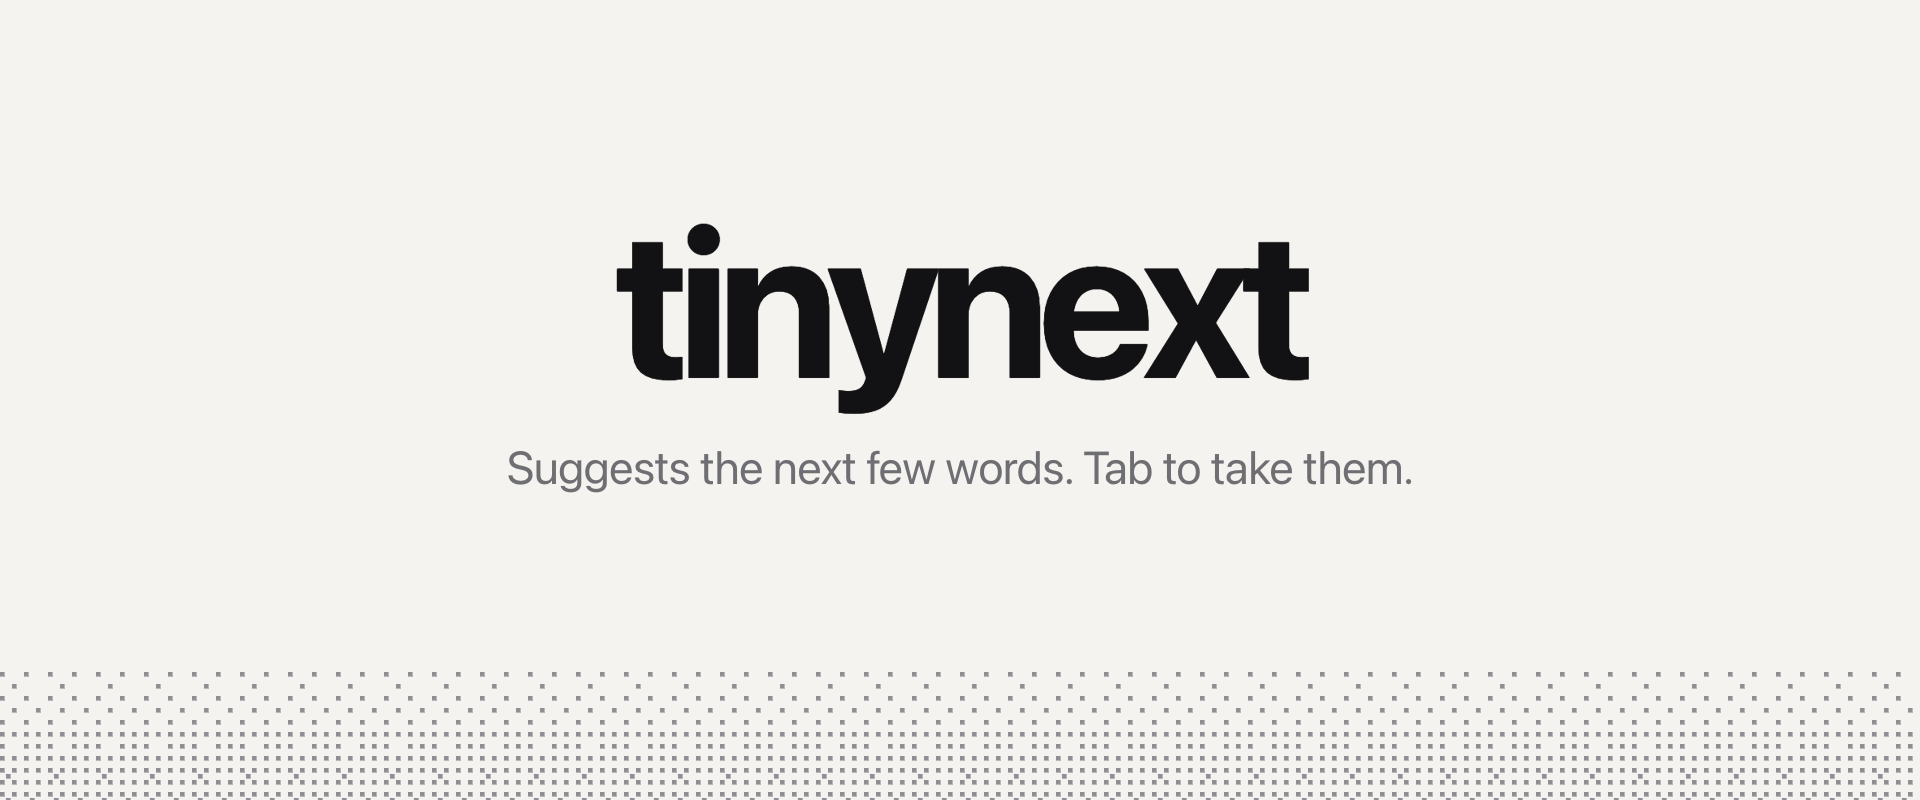
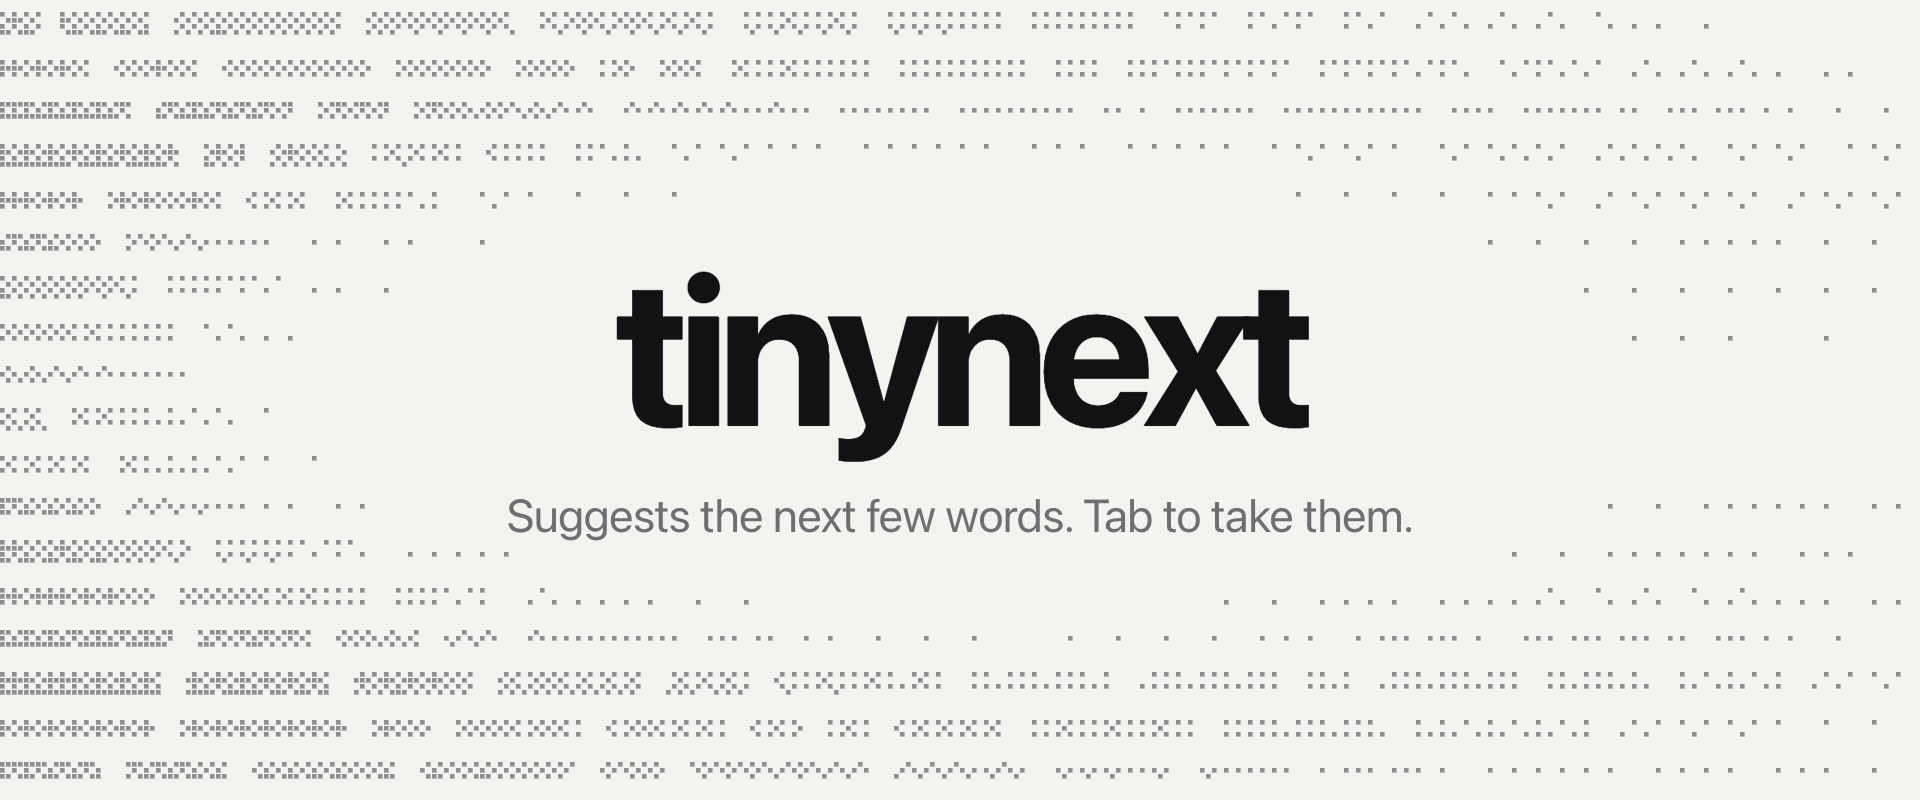
fill brand images with full-frame dither patterns for each product

diff --git a/brand/src/title.html b/brand/src/title.html
@@ -1,5 +1,5 @@
 <!doctype html><html><head><meta charset="utf-8"><script src="dither.js"></script><link rel="stylesheet" href="brand.css"><style>
-.content{display:flex;flex-direction:column;align-items:center;justify-content:center;text-align:center;padding:0 48px 56px}
+.content{display:flex;flex-direction:column;align-items:center;justify-content:center;text-align:center;padding:0 48px 8px}
 .name{font-weight:700;letter-spacing:-.05em;line-height:1}
 .name em{font-style:normal;color:var(--faint)}
 .line{color:var(--sub);letter-spacing:-.01em;margin-top:18px}
@@ -23,11 +23,45 @@ const line = document.getElementById("line");
 line.textContent = image.line;
 line.style.fontSize = `${Math.round(image.size * 0.22)}px`;
 
+// Patterns, each 0..1 brightness at (u, v). The center stays clear for the name.
+const TAU = Math.PI * 2;
+const hash = (n) => { const x = Math.sin(n * 127.1) * 43758.5453; return x - Math.floor(x); };
+const PATTERNS = {
+  // A signal rippling out from the middle.
+  rings: (u, v, px, py, w, h) => {
+    const r = Math.hypot(px - w / 2, py - h / 2);
+    return (0.5 + 0.5 * Math.sin((r / 34) * TAU)) * smoothstep(0, w * 0.75, r * 1.6);
+  },
+  // Two wave fields bending through each other.
+  waves: (u, v, px, py, w, h) => {
+    const a = Math.sin(px / 38 + Math.sin(py / 60) * 2.2);
+    const b = Math.sin(py / 26 - px / 90 + Math.cos(px / 140) * 1.5);
+    return 0.5 + 0.32 * a + 0.22 * b;
+  },
+  // Rows of word-sized fragments that thin out to the right, like a suggestion trailing off.
+  lines: (u, v, px, py, w, h) => {
+    const row = Math.floor(py / 22), inRow = py % 22;
+    if (inRow < 6 || inRow > 15) return 0;
+    let x = 0, word = 0;
+    while (x <= px) { x += 30 + hash(row * 31 + word) * 80; word++; }
+    const gap = x - px < 12;
+    return gap ? 0 : 0.95 - u * 0.9 + (hash(row) - 0.5) * 0.2;
+  },
+};
+IMAGES.banner.pattern = IMAGES.social.pattern = "rings";
+IMAGES.tinyfix.pattern = "waves";
+IMAGES.tinynext.pattern = "lines";
+
 document.fonts.ready.then(() => {
   const dark = theme === "dark";
+  const { width: w, height: h } = document.body.getBoundingClientRect();
+  const pattern = PATTERNS[image.pattern];
   dither(document.getElementById("band"), (ctx, g) => {
-    ctx.fillStyle = fade(ctx, 0, g.height * 0.8, 0, g.height, [[0, 0], [1, dark ? 0.42 : 0.34]]);
-    ctx.fillRect(0, 0, g.width, g.height);
+    paintField(ctx, g, (u, v, px, py) => {
+      const d = Math.hypot((u - 0.5) / 0.4, (v - 0.48) / 0.31);
+      const clear = smoothstep(0.8, 1.45, d);
+      return pattern(u, v, px, py, w, h) * clear * (dark ? 0.85 : 0.7);
+    });
   }, { cell: 3, supersample: 1, gap: 0.7, color: image.color[dark ? 1 : 0] });
   window.__ready = true;
 });

diff --git a/brand/src/dither.js b/brand/src/dither.js
@@ -57,3 +57,22 @@
   window.theme = location.hash === "#dark" ? "dark" : "light";
   document.documentElement.classList.toggle("dark", window.theme === "dark");
 })();
+
+// Fills the grid from fn(u, v, px, py) → 0..1, where u, v are 0..1 across the image and px, py are CSS pixels.
+window.paintField = function paintField(ctx, grid, fn) {
+  const image = ctx.createImageData(grid.width, grid.height);
+  for (let y = 0; y < grid.height; y++) {
+    for (let x = 0; x < grid.width; x++) {
+      const lum = Math.max(0, Math.min(1, fn(x / grid.width, y / grid.height, x * grid.cell, y * grid.cell)));
+      const i = (y * grid.width + x) * 4;
+      image.data[i] = image.data[i + 1] = image.data[i + 2] = lum * 255;
+      image.data[i + 3] = 255;
+    }
+  }
+  ctx.putImageData(image, 0, 0);
+};
+
+window.smoothstep = (edge0, edge1, x) => {
+  const t = Math.max(0, Math.min(1, (x - edge0) / (edge1 - edge0)));
+  return t * t * (3 - 2 * t);
+};
